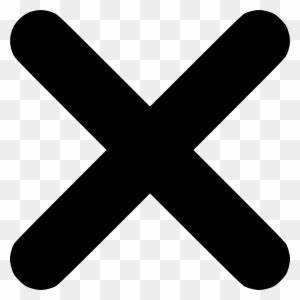
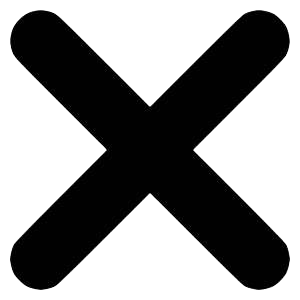
setting background image and navbar

diff --git a/client/src/pages/Customizer.jsx b/client/src/pages/Customizer.jsx
@@ -6,7 +6,7 @@ import state from "../store";
 import { download } from "../assets";
 import { downloadCanvasToImage, reader } from "../config/helpers";
 import { EditorTabs, FilterTabs, DecalTypes } from "../config/constants";
-// import closeImage from "../assets/close.png";
+import closeImage from "../assets/close.png";
 import { fadeAnimation, slideAnimation } from "../config/motion";
 import {
   CustomButton,
@@ -36,7 +36,7 @@ const Customizer = () => {
         return (
           <>
             <ColorPicker />
-            <button className="close-btn" onClick={() => setActiveEditorTab("")}>X</button>
+            <button className="close-btn" onClick={() => setActiveEditorTab("")}><img className="w-6 h-6 shadow-sm" src={closeImage} alt="X"/></button>
           </>
         );
       case "filepicker":
@@ -47,7 +47,7 @@ const Customizer = () => {
               setFile={setFile}
               readFile={readFile}
             />
-            <button className="close-btn" onClick={() => setActiveEditorTab("")}>X</button>
+            <button className="close-btn" onClick={() => setActiveEditorTab("")}><img className="w-6 h-6 shadow-sm" src={closeImage} alt="X" /></button>
           </>
         );
       case "aipicker":
@@ -59,7 +59,7 @@ const Customizer = () => {
               generatingImg={generatingImg}
               handleSubmit={handleSubmit}
             />
-            <button className="close-btn" onClick={() => setActiveEditorTab("")}>X</button>
+            <button className="close-btn" onClick={() => setActiveEditorTab("")}><img className="w-6 h-6 shadow-sm" src={closeImage} alt="X"/></button>
           </>
         );
       default:

diff --git a/client/src/App.jsx b/client/src/App.jsx
@@ -1,16 +1,36 @@
-import Canvas from './canvas';
-import Customizer from './pages/Customizer';
-import Home from './pages/Home';
-
+import Canvas from "./canvas";
+import Customizer from "./pages/Customizer";
+import Home from "./pages/Home";
+import wood from "./assets/wood.jpg";
 function App() {
   return (
-        <main className='app transition-all ease-in'>
-          <Home/>
-          <Canvas/>
-          <Customizer/> 
-        </main>
-    
-  )
+    <main className="app transition-all ease-in" style={{backgroundImage:`url(${wood})`}}>
+      
+
+       
+      <header>
+        <nav class="bg-white border-gray-200 px-6 lg:px-6 py-4   bg-gray-800 bg-opacity-50 backdrop-blur-sm ">
+          <div class="flex flex-wrap justify-center items-center mx-auto max-w-screen-xl">
+            <a href="https://flowbite.com" class="flex items-center">
+              
+              <span class="flex flex-row self-center text-4xl font-semibold whitespace-nowrap dark:text-white">
+                De'ZIGN'<img
+                src="https://flowbite.com/docs/images/logo.svg"
+                class="m-1 h-6 "
+                alt="Flowbite Logo"
+              /> IT
+              </span>
+            </a>
+          </div>
+        </nav>
+      </header>
+      <Home />
+      <Canvas />
+      <Customizer />
+      
+    </main>
+
+  );
 }
 
-export default App
+export default App;

diff --git a/client/src/pages/Home.jsx b/client/src/pages/Home.jsx
@@ -14,27 +14,20 @@ const Home = () => {
     <AnimatePresence>
       {snap.intro && (
         <motion.section className="home" {...slideAnimation("left")}>
-          <motion.header {...slideAnimation("down")}>
-            <img
-              src="./threejs.png"
-              alt="logo"
-              className="w-8 h-8 object-contain"
-            />
-          </motion.header>
-
+      
           <motion.div className="'home-content" {...headContainerAnimation}>
             <motion.div {...headTextAnimation}>
-              <h1 className="head-text">
-                LET'S <br className="xl:block hidden" />
-                DO IT.
+              <h1 className="head-text ">
+                IT'Z  <br className="xl:block hidden" />
+                ABOUT LOOKS
               </h1>
             </motion.div>
-
+             
             <motion.div
               {...headContentAnimation}
               className="flex flex-col gap-5"
             >
-              <p className="max-w-md font-normal text-gray-600 text-base">
+              <p className="max-w-md text-2xl font-normal text-orange-50 ">
                 Create your unique ans exclusive shirt with our brand-new 3D
                 customization tool. <strong>Unleash your imagination</strong>{" "}
                 and define your own style.

diff --git a/client/src/index.css b/client/src/index.css
@@ -20,15 +20,15 @@ html {
 }
 
 .home {
-  @apply w-fit xl:h-full flex xl:justify-between justify-start items-start flex-col xl:py-8 xl:px-36 sm:p-8 p-6 max-xl:gap-7 absolute z-10;
+  @apply w-fit xl:h-full flex xl:justify-between justify-start items-start flex-col xl:py-8 xl:px-36 sm:p-8 p-6 max-xl:gap-16 absolute z-10;
 }
 
 .home-content {
-  @apply flex-1 xl:justify-center justify-start flex flex-col gap-10;
+  @apply flex-1 xl:justify-center justify-start flex flex-col gap-16;
 }
 
 .head-text {
-  @apply xl:text-[10rem] text-[6rem] xl:leading-[11rem] leading-[7rem] font-black text-black;
+  @apply xl:text-[6rem] text-[4rem] xl:leading-[8rem] leading-[5rem]   py-16 font-black  text-orange-50;
   
 }
 

diff --git a/client/index.html b/client/index.html
@@ -4,7 +4,7 @@
     <meta charset="UTF-8" />
     <link rel="icon" type="image/svg+xml" href="/vite.svg" />
     <meta name="viewport" content="width=device-width, initial-scale=1.0" />
-    <title>Vite + React</title>
+    <title>De'ZIGN'IT-customize your clothes</title>
   </head>
   <body>
     <div id="root"></div>

diff --git a/client/src/components/FilePicker.jsx b/client/src/components/FilePicker.jsx
@@ -11,6 +11,7 @@ const FilePicker = ({file,setFile,readFile}) => {
         type="file"
         accept="image/*"
         onChange={(e) => setFile(e.target.files[0])}
+        // multiple
         />
         <label htmlFor='file-upload' className='filepicker-label'>
           Upload File
